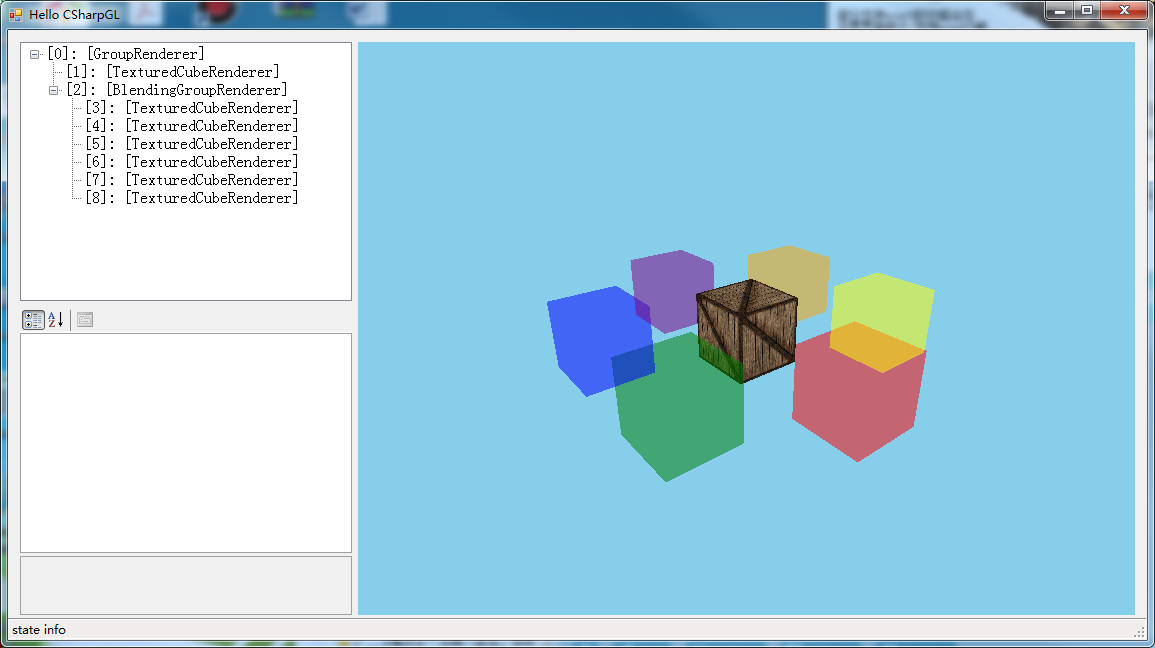
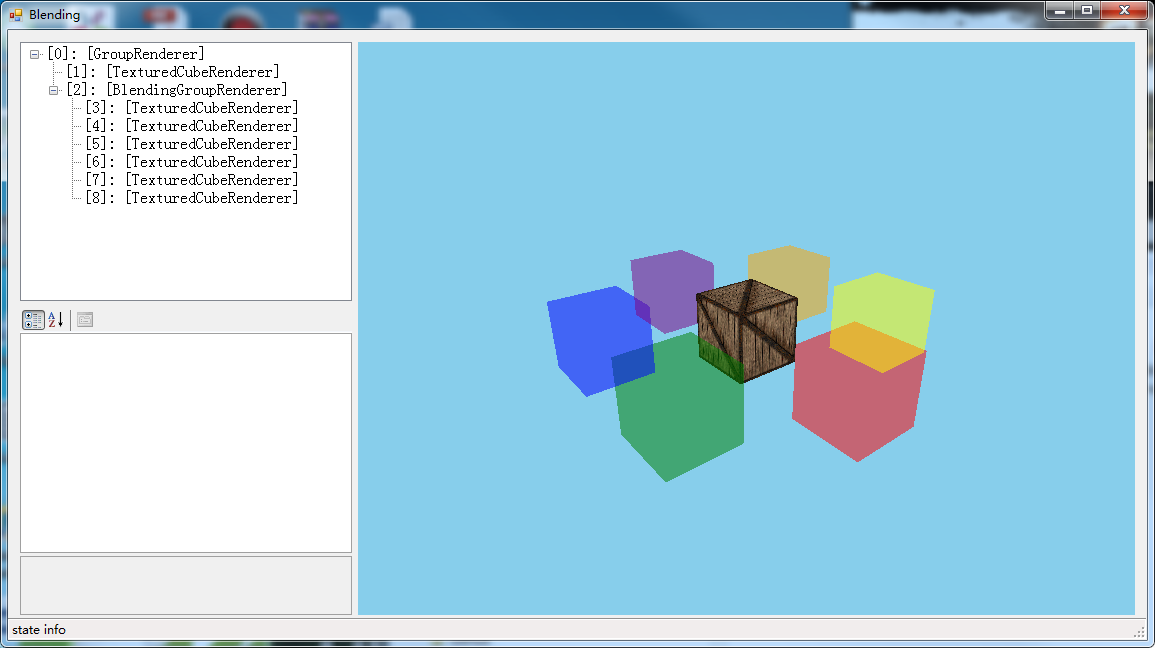
update

diff --git a/Demos/Blending/FormMain.Designer.cs b/Demos/Blending/FormMain.Designer.cs
@@ -93,7 +93,7 @@
             this.Controls.Add(this.trvScene);
             this.Controls.Add(this.winGLCanvas1);
             this.Name = "FormMain";
-            this.Text = "Hello CSharpGL";
+            this.Text = "Blending";
             ((System.ComponentModel.ISupportInitialize)(this.winGLCanvas1)).EndInit();
             this.statusStrip1.ResumeLayout(false);
             this.statusStrip1.PerformLayout();
